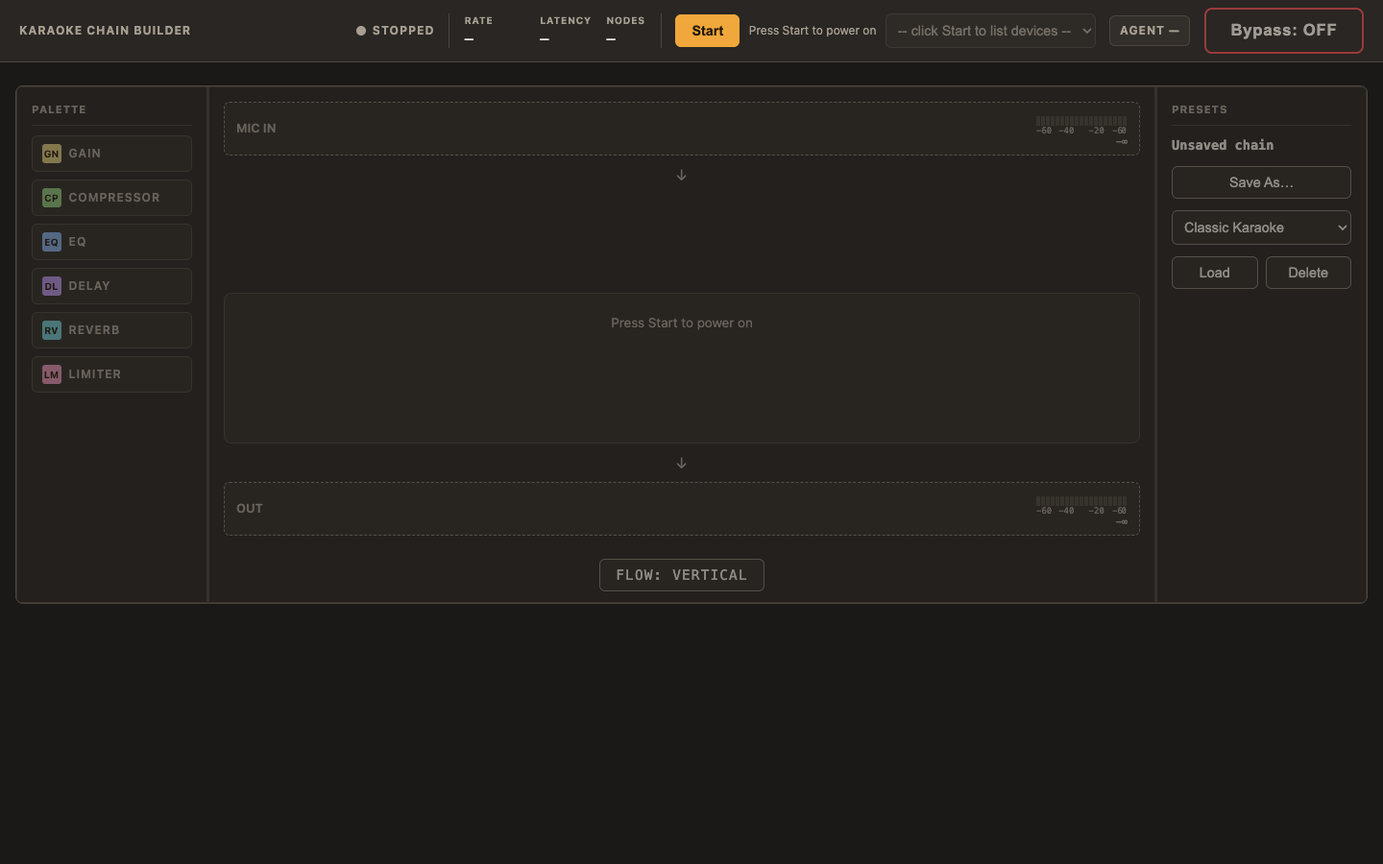
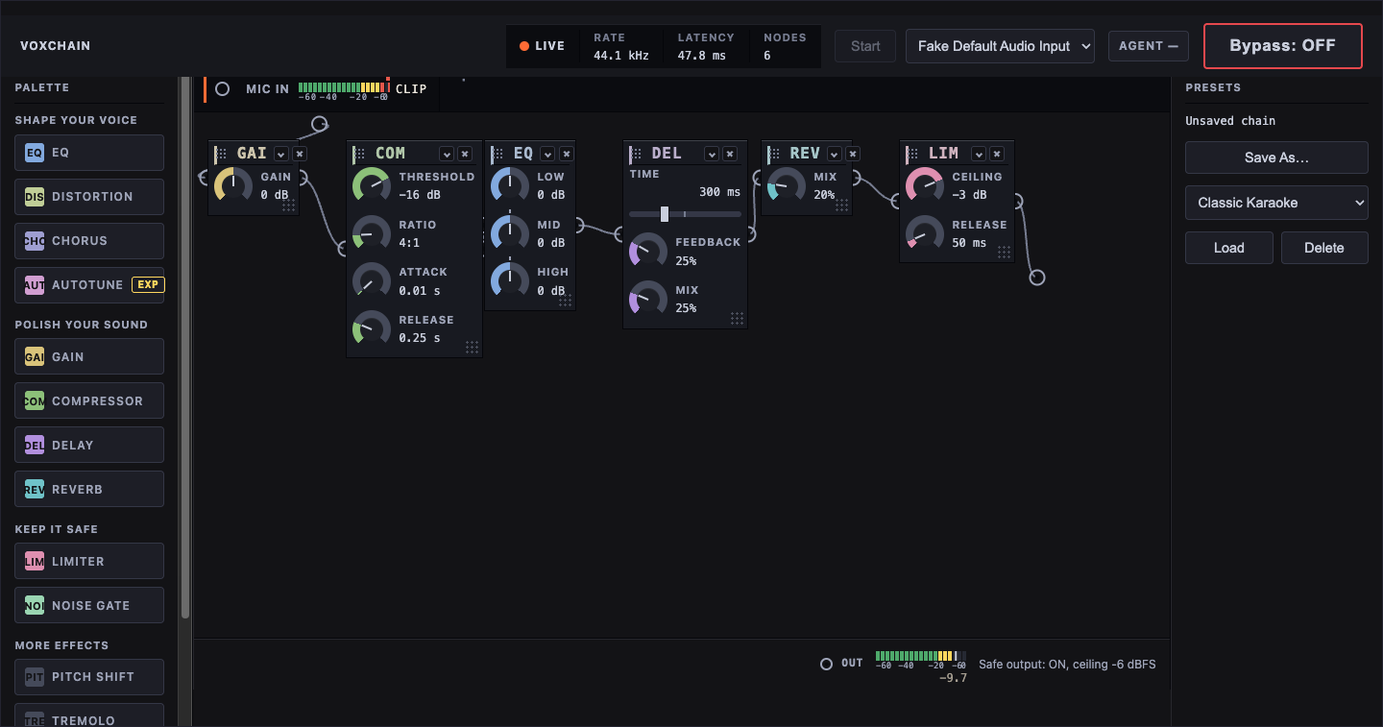
judge-facing truth round (#15): README rewritten for the current instrument — click/keyboard are the add verbs (palette drag retired with its dead receiver), the board reads permanently horizontal with move/resize/cord verbs, TIDY/FLOW/dropdown copy retired, all 14 effects documented (the Tone.js fo

diff --git a/src/canvas.js b/src/canvas.js
@@ -6,23 +6,17 @@
 //
 // Loaded as a plain (non-module) <script> — same IIFE + single
 // `window.X` export pattern as the rest of this project. Depends on
-// SortableJS (loaded via CDN in index.html, immediately before this file),
 // window.NodeTypes (src/node-types.js), window.ParamControls
 // (src/param-controls.js), window.AudioGraph (src/audio-graph.js), and
 // window.AudioEngine (src/audio-engine.js) — all already loaded by the time
-// this file runs, per index.html's script order.
+// this file runs, per index.html's script order. (SortableJS is RETIRED —
+// 2026-08-31: no drag library remains; see the wiring note below.)
 //
 // UI-3 scope: this is where AE-4's glitch-free rewiring engine and UI-4's
 // generic parameter controls come together into a real, usable feature for
-// the first time. Two connected SortableJS instances (RQ-2's committed
-// research decision, forceFallback:true on both — see
-// docs/ultron/research/rq2-drag-and-drop.md):
-//   - A PALETTE list: one chip per type currently in NodeTypes.getAllTypes()
-//     (today just "gain"; grows automatically as AE-6+ register more types
-//     — never a hardcoded type list here), configured to CLONE into the
-//     chain list on drop (palette itself is not reorderable/droppable-into).
-//   - A CHAIN list: the real signal chain — sortable within itself, and able
-//     to receive clones from the palette.
+// the first time. The add verbs are the palette chip CLICK and keyboard
+// activation (both addNodeType); order changes are CORD EDITS (FEW-4);
+// the grip/header drags MOVE POSITION (FEW-2).
 //
 // Model bookkeeping (Part D of the task spec): `chainModel`/`nodesById`
 // below are THIS file's own source of truth for "what nodes exist, in what
@@ -49,13 +43,11 @@
     return;
   }
 
-  if (typeof window.Sortable === 'undefined') {
-    // SortableJS failed to load (e.g. CDN unreachable). Fail loud in the
-    // console rather than silently leaving a non-functional, unlabeled
-    // palette/canvas on screen.
-    console.error('ChainCanvas: SortableJS (window.Sortable) is not available — check the CDN <script> tag in index.html.');
-    return;
-  }
+  // (SortableJS is RETIRED — 2026-08-31: the chain-side instance left
+  // with PD-1's cord editing, and the palette drag left with the
+  // dead-affordance round the same day. This file has no drag library
+  // dependency anymore; there is deliberately no window.Sortable guard
+  // here.)
 
   // ---------------------------------------------------------------------
   // Model bookkeeping (Part D).
@@ -73,15 +65,13 @@
   var chainModel = [];
   var nodeIdCounter = 0;
 
-  // MC-4 (OQ-7 serialization rule): true while a SortableJS drag is in
-  // progress on EITHER list (a palette drag targets the chain list too, so
-  // both sortables maintain the same single flag — only one drag can be
-  // active at a time anyway, since they share the 'chain-group' group).
-  // Maintained purely from SortableJS's own onStart/onEnd events below and
-  // read via the exported isDragActive() so src/mcp-tools.js can QUEUE
-  // agent mutations behind an in-progress user drag instead of racing the
-  // drop's onSort commit. Purely additive: nothing in this file branches
-  // on it, so drag behavior is bit-for-bit unchanged.
+  // MC-4 (OQ-7 serialization rule): true while ANY board gesture is in
+  // progress — a cord edit (armed at press since the 2026-08-31 race fix),
+  // a seat drag, or a width-resize drag; one gesture owns the pointer at a
+  // time. Read via the exported isDragActive() so src/mcp-tools.js can
+  // QUEUE agent mutations behind an in-progress user gesture instead of
+  // racing its commit; loadModel() cancels any armed gesture before
+  // replacing the board so a stale gesture can never commit afterward.
   var dragActive = false;
 
   // ---------------------------------------------------------------------
@@ -2206,11 +2196,16 @@
    *   entry are carried forward if they already sit on the board (an
    *   agent rebuild keeps surviving nodes where the operator left them),
    *   else auto-placed at the first free grid slot. When omitted the same
-   *   rules run against an empty saved map — so a fresh preset load ends
-   *   tidy while an autosave restore passed its layout round-trips
-   *   exactly.
+   *   rules run against an empty saved map.
+   * @param {{freshSeats?: boolean}} [options]
+   *   freshSeats (2026-08-31, #16 stale-seats finding): skip the
+   *   carry-forward branch entirely — every entry takes the first-free
+   *   stack. Preset loads (src/presets-ui.js) set it: a preset REPLACES
+   *   the board, so matching node ids must not inherit their current
+   *   seats (the documented tidy layout). Agent rebuilds and startup
+   *   restores leave it unset and keep the carry-forward rule.
    */
-  function loadModel(model, layout) {
+  function loadModel(model, layout, options) {
     // Chain replacement invalidates every in-flight board gesture (the
     // #16 race finding): a cord edit / seat move / width resize armed
     // against the OLD chain must never commit against the replacement
@@ -2262,6 +2257,13 @@
     // The store already sanitized whatever it handed us; the isFinite
     // guards here keep a hostile DIRECT caller from poisoning the map.
     var previous = positions;
+    // options.freshSeats (#16 stale-seats finding): a PRESET LOAD replaces
+    // the whole board, so matching node ids do NOT inherit their old seats
+    // — every section takes a first-free slot (the documented tidy stack).
+    // The default (agent rebuilds, startup restore) keeps the
+    // carry-forward rule: surviving sections stay where the operator
+    // left them.
+    var freshSeats = !!(options && options.freshSeats);
     positions = {};
     chainModel.forEach(function (entry) {
       var saved = layout ? layout[entry.id] : null;
@@ -2282,7 +2284,7 @@
           // compatibility; the store normalizes it on save).
           flow: 'horizontal',
         };
-      } else if (previous[entry.id]) {
+      } else if (!freshSeats && previous[entry.id]) {
         positions[entry.id] = previous[entry.id];
       } else {
         placeNewNode(entry.id);

diff --git a/tests/test-board-positioning-few2.js b/tests/test-board-positioning-few2.js
@@ -338,6 +338,29 @@ check(
 );
 
 // ----------------------------------------------------------------------
+console.log('B2. freshSeats (2026-08-31, #16 stale-seats finding): preset loads re-place, agent rebuilds carry forward');
+// Move n2 somewhere odd first, so carry-forward vs fresh placement are
+// distinguishable on the next load.
+CC.loadModel(model());
+documentStub.__fire('pointermove', { clientX: 139, clientY: 122 }); // (a live drag arm+move from section C's shape)
+documentStub.__fire('pointerup', {});
+// The default rule (agent rebuild / startup restore): matching ids KEEP
+// their seats.
+var carried = JSON.stringify(CC.currentLayout());
+CC.loadModel(model());
+check(
+  JSON.stringify(CC.currentLayout()) === carried,
+  'B2-1: default loadModel CARRIES FORWARD the current seats (agent rebuild keeps operator placement)'
+);
+// freshSeats (preset load): matching ids do NOT inherit — first-free stack.
+CC.loadModel(model(), null, { freshSeats: true });
+check(
+  CC.currentLayout().n1.x === 0 && CC.currentLayout().n2.x === 144 &&
+    CC.currentLayout().n3.x === 288 && CC.currentLayout().n1.y === 16,
+  'B2-2: freshSeats re-places every section on the incumbent ROW (the documented tidy preset layout)'
+);
+
+// ----------------------------------------------------------------------
 console.log('C. grip pointer-drag MOVES POSITION — never order');
 var modelBefore = JSON.stringify(CC.getCurrentModel());
 var domBefore = JSON.stringify(domOrder());

diff --git a/src/presets-ui.js b/src/presets-ui.js
@@ -602,7 +602,11 @@
         showPresetNote('Could not load that preset — it may have been removed.');
         return;
       }
-      window.ChainCanvas.loadModel(factoryPreset.nodes);
+      // freshSeats (#16 stale-seats finding): a preset load REPLACES the
+      // board — matching node ids do not inherit their current seats;
+      // every section takes the first-free stack (the documented tidy
+      // layout).
+      window.ChainCanvas.loadModel(factoryPreset.nodes, null, { freshSeats: true });
       setCurrentPreset(factoryPreset.name);
       clearModified();
       noteHumanEditGuarded();
@@ -623,7 +627,9 @@
 
     // ChainCanvas.loadModel() also updates the autosave baseline
     // internally (see src/canvas.js) — nothing extra needed here for that.
-    window.ChainCanvas.loadModel(result.nodes);
+    // freshSeats: same as the factory branch — a preset load re-places the
+    // board (first-free stack), never inherits current seats.
+    window.ChainCanvas.loadModel(result.nodes, null, { freshSeats: true });
     setCurrentPreset(result.name);
     clearModified();
     noteHumanEditGuarded();

diff --git a/README.md b/README.md
@@ -2,11 +2,11 @@
 
 **Live: https://voxchain.arrangedgodly.com/**
 
-A live karaoke vocal chain in your browser: mic in → effects (reverb, delay, compression, EQ, noise gate, distortion, chorus — even autotune) → PA out. Zero install, works fully offline, and an AI agent in the browser can build and edit the chain from plain language via [WebMCP](https://developer.chrome.com/docs/ai/webmcp).
+A live karaoke vocal chain in your browser: mic in → 14 effects (gain, compression, EQ, delay, reverb, limiter, noise gate, distortion, chorus, autotune, pitch shift, tremolo, bitcrusher, phaser) → PA out. Zero install, works fully offline, and an AI agent in the browser can build and edit the chain from plain language via [WebMCP](https://developer.chrome.com/docs/ai/webmcp).
 
-![VOXCHAIN — the dark pro-audio console: status strip on top, effects rack left, chain canvas middle, presets right](docs/screenshot.png)
+![VOXCHAIN — the dark instrument console: system deck on top, palette / free cord board / presets on the voice deck below](docs/screenshot.png)
 
-The console's dark pro-audio look — amber lamps, legible from two meters — as it sits before you press Start, with the default chain ready to go.
+The console live: the default chain on the free board, cords carrying the signal left to right, meters reading real levels.
 
 ## For judges: the 60-second path
 
@@ -52,6 +52,8 @@ Chrome's flag, DevTools pane, Inspector extension, and this project's `?dev` har
 - Add, remove, and reorder effects, and set parameters — within published safety limits.
 - Retrieve and load presets (factory or saved), and save new ones.
 
+Chain mutations are refused with a stable `ENGINE_NOT_STARTED` result until the operator presses Start — the human board is gated before the engine is live, so an agent edit would otherwise change state the operator cannot see. Reads work at any time.
+
 **An agent cannot (human-only):**
 - Touch **Bypass** — it works from the button or the **spacebar**, always.
 - Start or stop the engine.
@@ -74,7 +76,7 @@ Registered by the app for in-browser agents (see `src/mcp-tools.js`):
 | `set_chain` | write | Replace the whole chain in one validated pass (also the preset-loading path). |
 | `add_node` | write | Insert one effect node (position optional). |
 | `remove_node` | write | Remove one node — refused if it breaks a chain rule (e.g. the limiter). |
-| `set_param` | write | Set a single parameter with a policy-checked, param-only ramp. |
+| `set_param` | write | Set a single parameter with a policy check — ramped over ~15 ms on every AudioParam-backed control (three Tone plain-property params are documented immediate-write exceptions). |
 | `list_presets` | read | Factory library plus the user's saved presets. |
 | `get_preset` | read | One listed preset's complete nodes, without loading it (namespace explicit when a name exists in both groups). |
 | `load_preset` | write | Load a listed preset as the live chain — same policy and visible UI path as `set_chain`, with summary toast and Undo. |
@@ -83,9 +85,12 @@ Registered by the app for in-browser agents (see `src/mcp-tools.js`):
 `get_capabilities` has two focused responses. The default `policy` response
 lists exact parameters, ranges, and chain rules. The optional `sound_design`
 response translates language such as "deeper," "a little reverb," "ghostly,"
-"warm," "clear," "thick," "gritty," and "robotic" into safe starting ranges.
-The browser agent still interprets the request. The app supplies the audio
-vocabulary, enforces every resulting change, and stays LLM-free.
+"warm," "clear," "thick," "gritty," "robotic," "transposed," "spacey,"
+"warble," and "lo-fi" into safe starting ranges, and its verify workflow has
+the agent read `get_chain`'s output authority (Bypass / watchdog mute) before
+asking the human to listen. The browser agent still interprets the request.
+The app supplies the audio vocabulary, enforces every resulting change, and
+stays LLM-free.
 
 ## Shared-state architecture
 
@@ -97,7 +102,7 @@ Agent and human drive the **same model, UI, and audio graph** — agent mutation
 node tests/run.js
 ```
 
-Zero dependencies — needs only Node, works from a clean clone; exit code 0 means green. The suite covers: 10-tool registration, policy round-trips of all factory presets, safety refusals, the node-reuse type guard, watchdog tap/latch, mutation + undo, persistence honesty, param-only ramps, the preset retrieve/load tools, and the four newer effects (Noise Gate, Distortion, Chorus, Autotune) — their audio structure, palette cards, discrete key/scale params, agent string params, and preset round-trips.
+Zero dependencies — needs only Node, works from a clean clone; exit code 0 means green. The suite covers: 10-tool registration, policy round-trips of all factory presets, safety refusals, the node-reuse type guard, watchdog tap/latch, mutation + undo, persistence honesty, param-only ramps, the preset retrieve/load tools, the four cycle-3 effects (Noise Gate, Distortion, Chorus, Autotune) and the four Tone.js effects (Pitch Shift, Tremolo, Bitcrusher, Phaser) — audio structure, palette cards, discrete key/scale params, agent string params, and preset round-trips — plus the 2026-08-31 submission-hardening round: pre-Start mutation refusal, crash rollback honesty, superseded-rebuild disposal, the autosave-failure latch, sound-design guide identity/direction/degraded-registry filtering, and the output-authority readout.
 
 **Honest boundaries:** automation does not prove the physical mic → PA path, audible DSP quality, or hidden-tab watchdog behavior. Those live in [docs/ACCEPTANCE.md](docs/ACCEPTANCE.md).
 
@@ -123,12 +128,13 @@ Across the top, the status strip shows whether the engine is **Stopped** or **Li
 
 ### Building your sound
 
-- The left panel has your effects — the originals (Gain, Compressor, EQ, Delay, Reverb, Limiter) plus four newer ones (Noise Gate, Distortion, Chorus, Autotune — see the next section). **Drag one into the middle column** to add it to the chain — or just click it (Tab to it and press Enter works too; new effects are added just before the limiter so it stays last). The chain flows top to bottom by default, mic in at the top and sound out at the bottom. Prefer the old left-to-right view? The **FLOW** button under the chain flips it back, and it remembers your choice.
-- The meters on the **MIC IN** and **OUT** bars show your incoming and outgoing levels at a glance, and the small **OUT** readout pinned at the bottom of the chain area shows your output level even when the chain is too long to fit on screen.
-- **Move a card** — grab it by its `⋮⋮` handle and drag it anywhere on the canvas. Moving a card never changes your sound, and the arrangement is saved automatically (the **TIDY** button under the chain stacks everything back neatly).
+- The left panel has your effects — the originals (Gain, Compressor, EQ, Delay, Reverb, Limiter), the cycle-3 four (Noise Gate, Distortion, Chorus, Autotune), and the Tone.js four (Pitch Shift, Tremolo, Bitcrusher, Phaser). **Click a chip to add it** to the chain — Tab to a chip and press Enter works too, and new effects are added just before the limiter so it stays last. The board reads left to right, mic in on the left, sound out at the bottom-right port; nothing rearranges your cards but you.
+- The meters on the **MIC IN** (top-left) and **OUT** (bottom-right) units show your incoming and outgoing levels at a glance; the **OUT** readout is pinned to the board's base plate so it stays visible even when the chain is longer than the screen.
+- **Move a section** — drag it by its header anywhere on the board. Moving (or resizing) a section never changes your sound; the arrangement is saved automatically.
+- **Resize a section** — drag the machined corner mark at its bottom-right to widen it; controls re-wrap to fill the wider card.
 - **Reorder by cord** — drag from a jack point on one card to a jack point on another. The sound changes only when the link completes; drop the cord on empty space and it snaps back with nothing changed.
 - Click the **×** on a card to remove it.
-- Use the sliders under each effect to tune it (Autotune's **Key** and **Scale** are dropdowns instead of sliders). Click a card's chevron (**▾**) to collapse it — its controls tuck away, but the effect keeps working.
+- Tune with the knobs and sliders under each effect — Autotune's **Key** and **Scale** are pressable pads instead of sliders. Click a card's chevron (**▾**) to collapse it — its controls tuck away, but the effect keeps working.
 
 ### The four newer effects — what they're for
 
@@ -144,6 +150,18 @@ Across the top, the status strip shows whether the engine is **Stopped** or **Li
 - It adds a fixed **20 ms delay** (a fiftieth of a second) to the vocal. You won't notice it while singing, but if you A/B it against the dry sound the corrected voice lands a hair late. That's the engine's declared latency — expected behavior, not a fault.
 
 **Want to hear all four before a show?** They were accepted on a fixed test vocal — `assets/test-vocal.mp3` (CC0; source credited in [THIRD_PARTY_NOTICES.md](THIRD_PARTY_NOTICES.md)) — and you can reproduce exactly that demo yourself: with Node and ffmpeg installed, run `node tests/qa-out/run-qa1.js`, then follow the guided A/B listening order in [`tests/qa-out/LISTENING.md`](tests/qa-out/LISTENING.md). It renders before/after audio for every effect at default and extreme settings, offline, through the same node code the app runs live.
+
+### The Tone.js four — what they're for
+
+Four more effects (Pitch Shift, Tremolo, Bitcrusher, Phaser) built on the vendored [Tone.js](https://tonejs.github.io) 15.1.22 — promoted out of experimental status 2026-08-31.
+
+**Pitch Shift** — the app's only *actual* pitch control: it moves the voice up or down in semitones (±12; keep |shift| ≤ 7 for intelligibility). "Take it up 2 semitones" when the backing track sits above the singer. **Mix** blends shifted and original.
+
+**Tremolo** — volume wobble: amplitude dips and swells at an adjustable **Rate** (0.1–20 Hz) and **Depth**. Slow rates read as gentle breathing; mid rates are the classic 60s surf shimmer.
+
+**Bitcrusher** — lo-fi digital grunge: it re-quantizes the signal to fewer **Bits** (1–8 — *fewer bits = more crushed*) and blends it with the clean signal via **Mix**. The factory "Phone Call Gag" preset uses the telephone-voice end of this range.
+
+**Phaser** — a sweeping, spacey filter sweep: **Rate** sets how fast the notch rides (0.05–8 Hz), **Depth** how far (0–100 %), **Base** where the sweep starts (50–1500 Hz). Slower rates with high depth give the "spacey" vocal bed; like chorus it reads best in stereo. One honest note: pitch shift's `pitch` and phaser's `depth`/`baseHz` are Tone.js plain properties with no rampable AudioParam underneath — the app's published click-safe-ramp promise names exactly these three as immediate-write exceptions (see `get_capabilities`).
 
 ### Saving your setup
 
@@ -183,7 +201,9 @@ Recording checklist (the judge script above doubles as the shot list):
 ## License & credits
 
 This project is open source under the MIT License — see [LICENSE](LICENSE).
-Two bundled third-party pieces ship under their own terms, detailed in
-[THIRD_PARTY_NOTICES.md](THIRD_PARTY_NOTICES.md): **Sortable.js 1.15.7**
-(MIT, vendored for drag-and-drop) and the **reverb impulse response**
-"IR Rollo Transparent Plate" by Rollo145 (CC0 1.0, from Freesound).
+Bundled third-party pieces ship under their own terms, detailed in
+[THIRD_PARTY_NOTICES.md](THIRD_PARTY_NOTICES.md): **Tone.js 15.1.22** (MIT,
+vendored for the four Tone-backed effects), the **reverb impulse response**
+"IR Rollo Transparent Plate" by Rollo145 (CC0 1.0, from Freesound), and the
+**test vocal** by Ehved (CC0 1.0, from Freesound). (Sortable.js was retired
+with the palette drag on 2026-08-31 and is no longer bundled.)

diff --git a/docs/ACCEPTANCE.md b/docs/ACCEPTANCE.md
@@ -77,21 +77,33 @@ PA. Start from the factory **Classic Karaoke** preset.
       Node + ffmpeg) and A/B them in the given order; Autotune additionally
       gets one live pass through the mic so the 20 ms engine delay is heard
       on a real voice before a show.
+- [ ] **The four Tone.js effects** (Pitch Shift, Tremolo, Bitcrusher,
+      Phaser) — live, through the mic and PA: pitch shift −5 / +5 semitones
+      clearly transposes without warble artifacts; tremolo at 5 Hz / 70 %
+      is an obvious clean swell; bitcrusher at 3 bits / 40 % mix is the
+      lo-fi telephone crush; phaser at 0.5 Hz / 60 % is a slow, spacey
+      sweep (audible in stereo, safe folded to mono).
 - [ ] **Large-jump click check (issue #5 — ramps shipped, physical listen
       still required)**: the published policy (`get_capabilities` →
-      `host-param-ramps`) promises every param change ramps over 10–20 ms
-      with no instantaneous jump. The ramps ARE in the build now (every
-      live AudioParam write in all ten node handlers is a scheduled 15 ms
-      ramp via `src/audio-param-ramp.js`, and `set_param` applies in place
-      with no card rebuild and no chain-gate duck — both proven
-      headlessly by `tests/test-param-only-mutation.js`, including a
-      math-level discontinuity probe). What automation CANNOT prove is
-      the sound in the room. Walk it with LARGE jumps at event volume:
-      `set_param` gain −24 → +12 dB, reverb mix 0 → 100, delay time
-      300 → 750 ms, compressor threshold −8 → −40 — plus one full
-      min→max slider drag per effect (and, for Autotune's Key/Scale
-      dropdowns, a step through their values) — listening for any click,
-      pop, or zipper. **Any audible click on this line is a hard FAIL.**
+      `host-param-ramps`) promises every AUDIOPARAM-BACKED param change
+      ramps over 10–20 ms with no instantaneous jump, and names exactly
+      three immediate-write exceptions — pitch shift `pitch`, phaser
+      `depth`, and phaser `baseHz` (Tone.js plain properties with no
+      AudioParam underneath). The ramps ARE in the build (every live
+      AudioParam write in the node handlers is a scheduled 15 ms ramp via
+      `src/audio-param-ramp.js`, and `set_param` applies in place with no
+      card rebuild and no chain-gate duck — both proven headlessly by
+      `tests/test-param-only-mutation.js`, including a math-level
+      discontinuity probe). What automation CANNOT prove is the sound in
+      the room. Walk it with LARGE jumps at event volume: `set_param` gain
+      −24 → +12 dB, reverb mix 0 → 100, delay time 300 → 750 ms,
+      compressor threshold −8 → −40 — plus one full min→max slider drag
+      per effect, the three named plain-property exceptions (pitch shift
+      pitch −12 → +12, phaser depth 0 → 100, phaser baseHz 50 → 1500),
+      and, for Autotune's Key/Scale pads, a step through their values —
+      listening for any click, pop, or zipper. **Any audible click on this
+      line is a hard FAIL** (an audible step on one of the three disclosed
+      plain-property exceptions is a finding to record, not a surprise).
 - [ ] Reordering/removing nodes mid-signal: no pop, no dropped audio.
 - [ ] Date / operator / result: ____________
 
@@ -255,7 +267,7 @@ not a lab measurement.
       matches the chain length.
 - [ ] Date / operator / result: ____________
 
-## 7. Live-deployment smoke: https://karaoke.arrangedgodly.com/
+## 7. Live-deployment smoke: https://voxchain.arrangedgodly.com/
 
 The deployed build must be the same app the local checks ran against.
 
@@ -313,18 +325,20 @@ itself as before.
       EQ is clearly audible in the right direction), and a committed
       relink during live audio is one clean duck — no click, no pop, no
       dropped audio. **This line is the one automation cannot prove.**
-- [ ] **Free positioning + TIDY** — grip-drag moves a card with grid
-      snap (no order change); **TIDY** in the canvas chrome restores the
-      tidy stack while preserving each card's scale/flow.
-      *Suite-gated:* `tests/test-board-positioning-few2.js` (graph +
-      model byte-stable under moves) and
-      `tests/test-autosave-layout-store.js` (TIDY rewrites only x/y).
-- [ ] **Reload restores the layout; preset load auto-layouts** — card
+- [ ] **Free positioning + section resize** — grip-drag moves a card with
+      grid snap (no order change, clamped to the non-negative board); the
+      corner mark widens a card (controls re-wrap) with no order or sound
+      change. *Suite-gated:* `tests/test-board-positioning-few2.js`
+      (graph + model byte-stable under moves; freshSeats re-placement) —
+      TIDY and automatic arrangement are RETIRED: nothing moves a card
+      but the operator.
+- [ ] **Reload restores the layout; preset load re-places tidy** — card
       positions survive a reload (legacy autosaves migrate to the tidy
-      stack); loading any preset stacks the board tidy (presets stay
-      chain-only). *Suite-gated:* `tests/test-autosave-layout-store.js`
+      stack); loading any preset re-places the board on the first-free
+      stack (presets stay chain-only; matching node ids do NOT inherit
+      current seats). *Suite-gated:* `tests/test-autosave-layout-store.js`
       (v2 round-trip, idempotent legacy migration, hostile layouts fail
-      soft).
+      soft) and `tests/test-board-positioning-few2.js` (freshSeats).
 - [ ] **Keyboard add unchanged** — palette click / Tab+Enter still adds
       just before the limiter; DOM/tab/screen-reader order equals chain
       order however the cards are scattered, and focusing an overlapped
@@ -337,11 +351,12 @@ itself as before.
       discipline).
 - [ ] Date / operator / result: ____________
 
-Scope note for this pass: card resize (FEW-5), the per-card flow glyph
-(FEW-6), palette drag-drop placement (FEW-7's drag part), and fold
-interplay on the board (FEW-8) are deferred — there is no corner resize
-handle and the canvas-level **FLOW** button still works until FEW-6
-lands. The chain's drag-to-reorder is retired on purpose: ordering is
+Scope note (updated 2026-08-31): card RESIZE shipped (the corner mark);
+the per-card flow glyph, the canvas-level FLOW toggle, and TIDY are
+RETIRED (the board is permanently horizontal and free — nothing arranges
+cards automatically); the palette DRAG is retired with its dead receiver
+(click / Tab+Enter are the add verbs; SortableJS is no longer bundled).
+The chain's drag-to-reorder is retired on purpose: ordering is
 cords-only.
 
 ---
